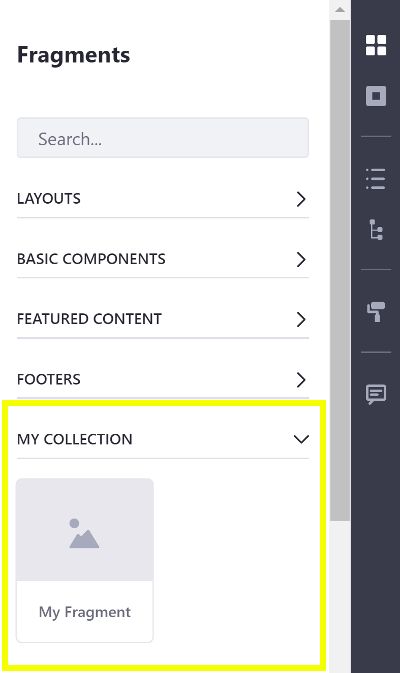
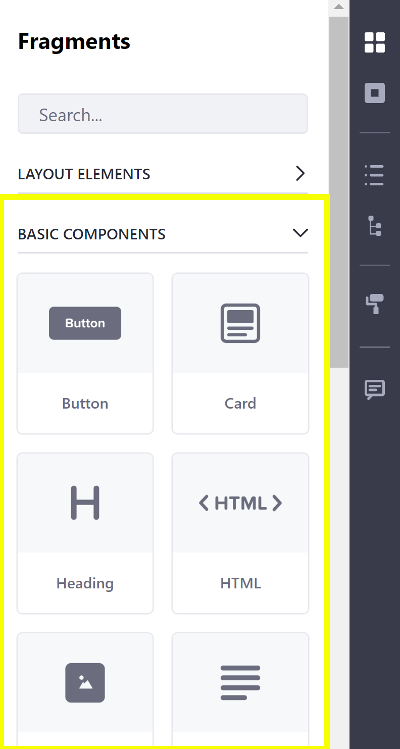
LRDOCS-7536 Update image

diff --git a/docs/dxp/7.x/en/site-building/displaying-content/using-fragments/page-fragments-intro.md b/docs/dxp/7.x/en/site-building/displaying-content/using-fragments/page-fragments-intro.md
@@ -12,8 +12,6 @@ Developers can also [embed Liferay widgets](../../developer-guide/developing-pag
 
 Page Fragments are organized into Collections. Collections group related Fragments together so you can manage them easily. Fragments are accessible through these Collections when [building a Content Page](../../creating-pages/building-content-pages.md). You can include resources in Page Fragment Collections and reference them from your Page Fragment's code without worrying about their availability. This is helpful when moving Page Fragments. See [Including Default Resources in Page Fragments](../../developer-guide/developing-page-fragments/including-default-resources-with-fragments.md) for more information.
 
-<!-- Please modify the image below so that the Collection and Fragment displayed are real world examples, not My Collection and My Fragment. --> 
-
 ![Collections provide an easy way to organize, manage, and share Fragments.](./page-fragments-intro/images/03.png)
 
 These topics are covered:
